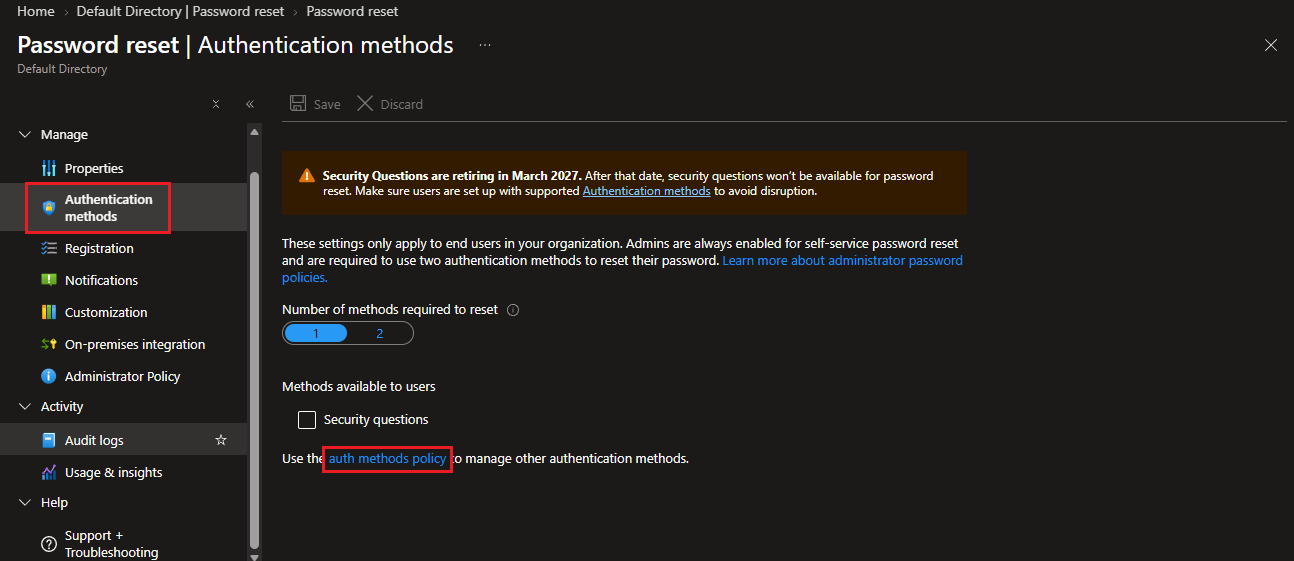
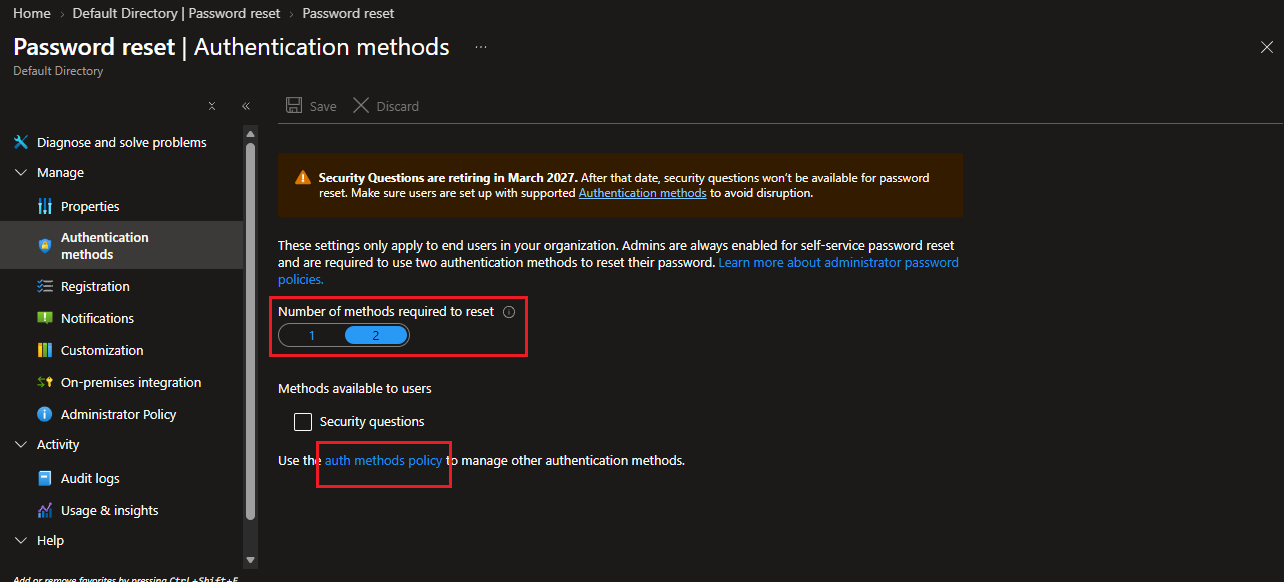
update - 26/10/26 - 08:47

diff --git a/Azure/AZ-104 - Azure Administrator Associate/Change - Mudança/Entra-ID/RBAC-IAM/CHG-2026-1025-001/SSPR - Configuração e Implantação.md b/Azure/AZ-104 - Azure Administrator Associate/Change - Mudança/Entra-ID/RBAC-IAM/CHG-2026-1025-001/SSPR - Configuração e Implantação.md
@@ -43,10 +43,65 @@
 
         <img src="./img/04.png" width="700">
 
+* Aos colaboradores do grupo, foi informado o link para o cadastro o modelo de autenticação que será usado.
+
+    * Link do SSPR Setup **https://aka.ms/ssprsetup**.
+```
+    * Para colaboradores que já possuem um metodo cadastrado, o mesmo terá que incluir-lo manualmente.
+
+```
+* No portal será exibido a tela solicitando as credenciais de acesso.
+
+    * <img src="./img/04-1.png" width="700">
+    
+    * Solicitando a senha de acesso.
+
+        <img src="./img/04-2.png" width="700">
+
+    * Após a autenticação, clique na opção *Adicionar método de entrada*
+
+        <img src="./img/04-3.png" width="700">
+
+    * Escolha o segundo metodo para autenticação.
+
+        <img src="./img/04-4.png" width="700">
+
+```
+    * Para colaboradores que não possuem um metodo cadastrado, se autenticando pela primeira vez.
+
+```
+* Inicialmente, será disponibilizada a tela de autenticação padrão.
+
+    <img src="./img/04-5.png" width="700">
+
+* Em seguida, será solicitado para cadastrar metodo de autenticação.
+
+    <img src="./img/04-6.png" width="700">
+
+* Incialmente, será solicitado o cadastro do MS Authenticator.
+
+    <img src="./img/04-7.png" width="700">
+
+* Authenticator cadastrado com sucesso.
+
+    <img src="./img/04-8.png" width="700">
+
+* Em seguida, será soicitado o segundo metodo para autenticação para redefinição da senha.
+*"Tem que ser um e-mail fora da organização".*
+
+   <img src="./img/04-9.png" width="700">
+
+* Será enviado um código para o e-mail cadastrado.
+
+   <img src="./img/04-10.png" width="700">
+
+* O cadastro foi realizado com sucesso.
+
+   <img src="./img/04-11.png" width="700">
+
 * Aos colaboradores, foi informado o link da página para acesso ao SSPR **https://passwordreset.microsoftonline.com**
 
     <img src="./img/05.png" width="700">
-
 
 # 3. 💻 Comandos / Scripts Utilizados
 
